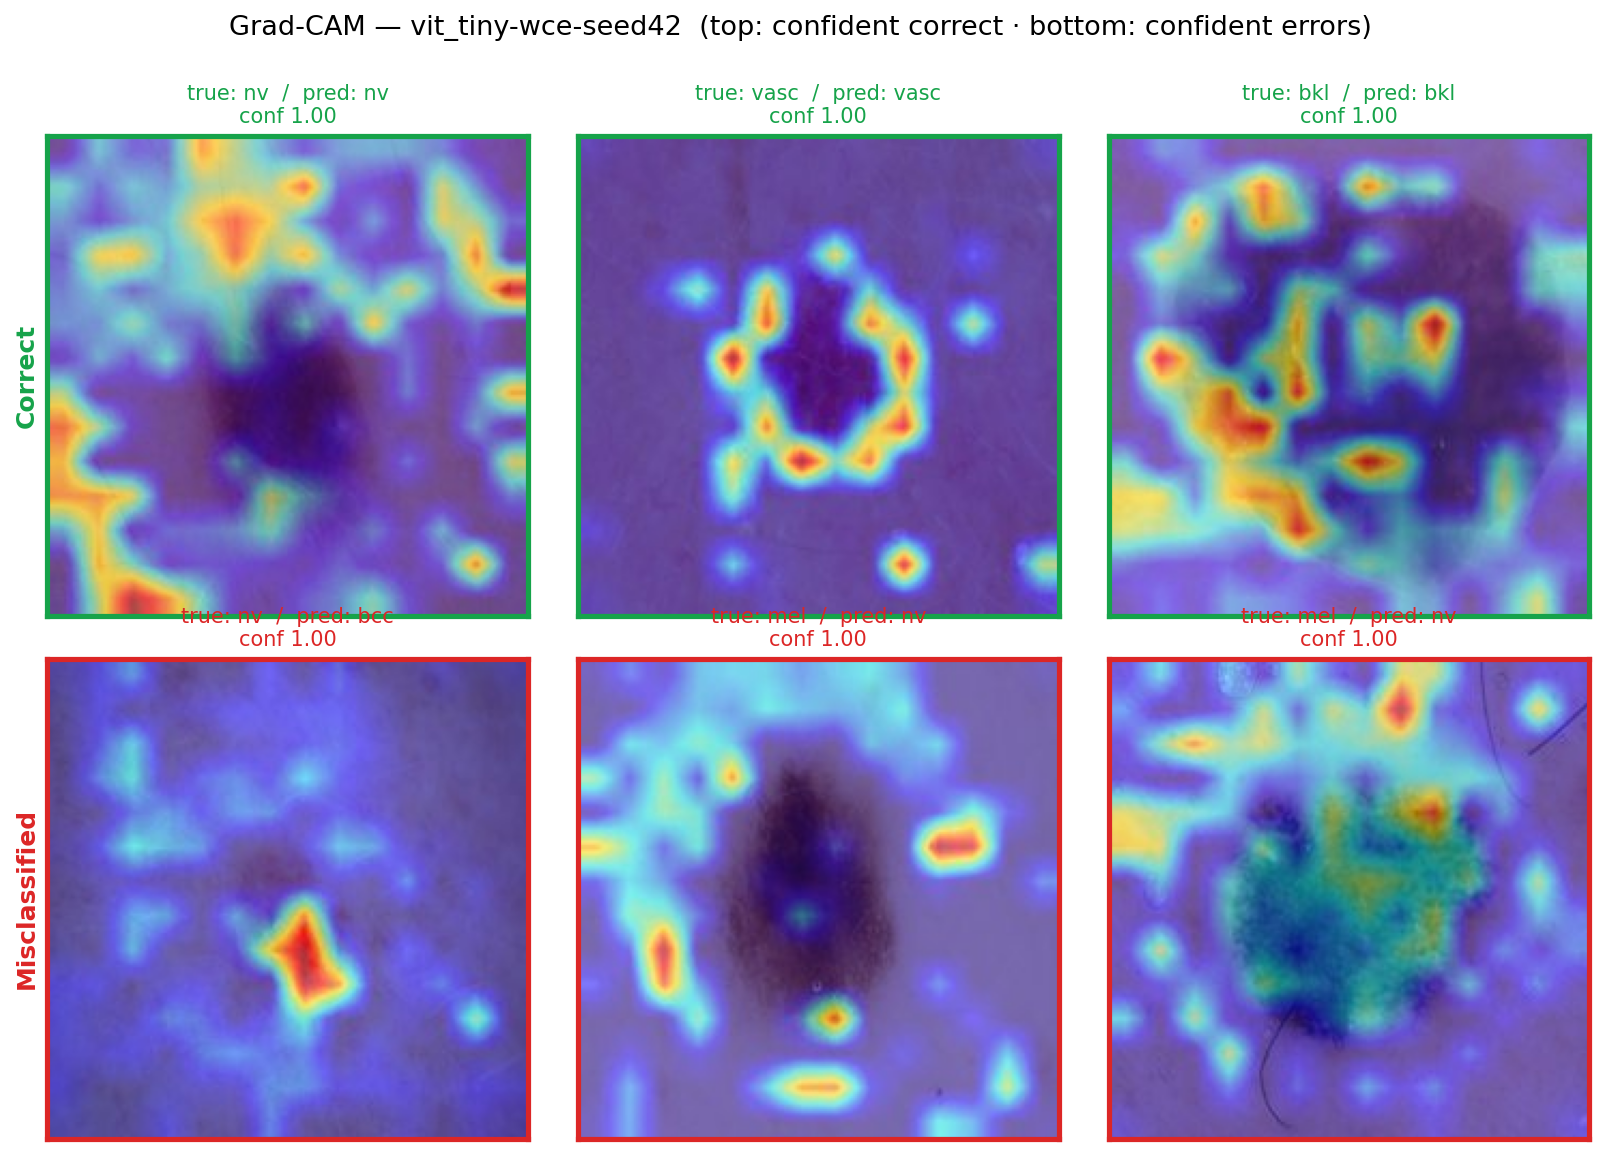
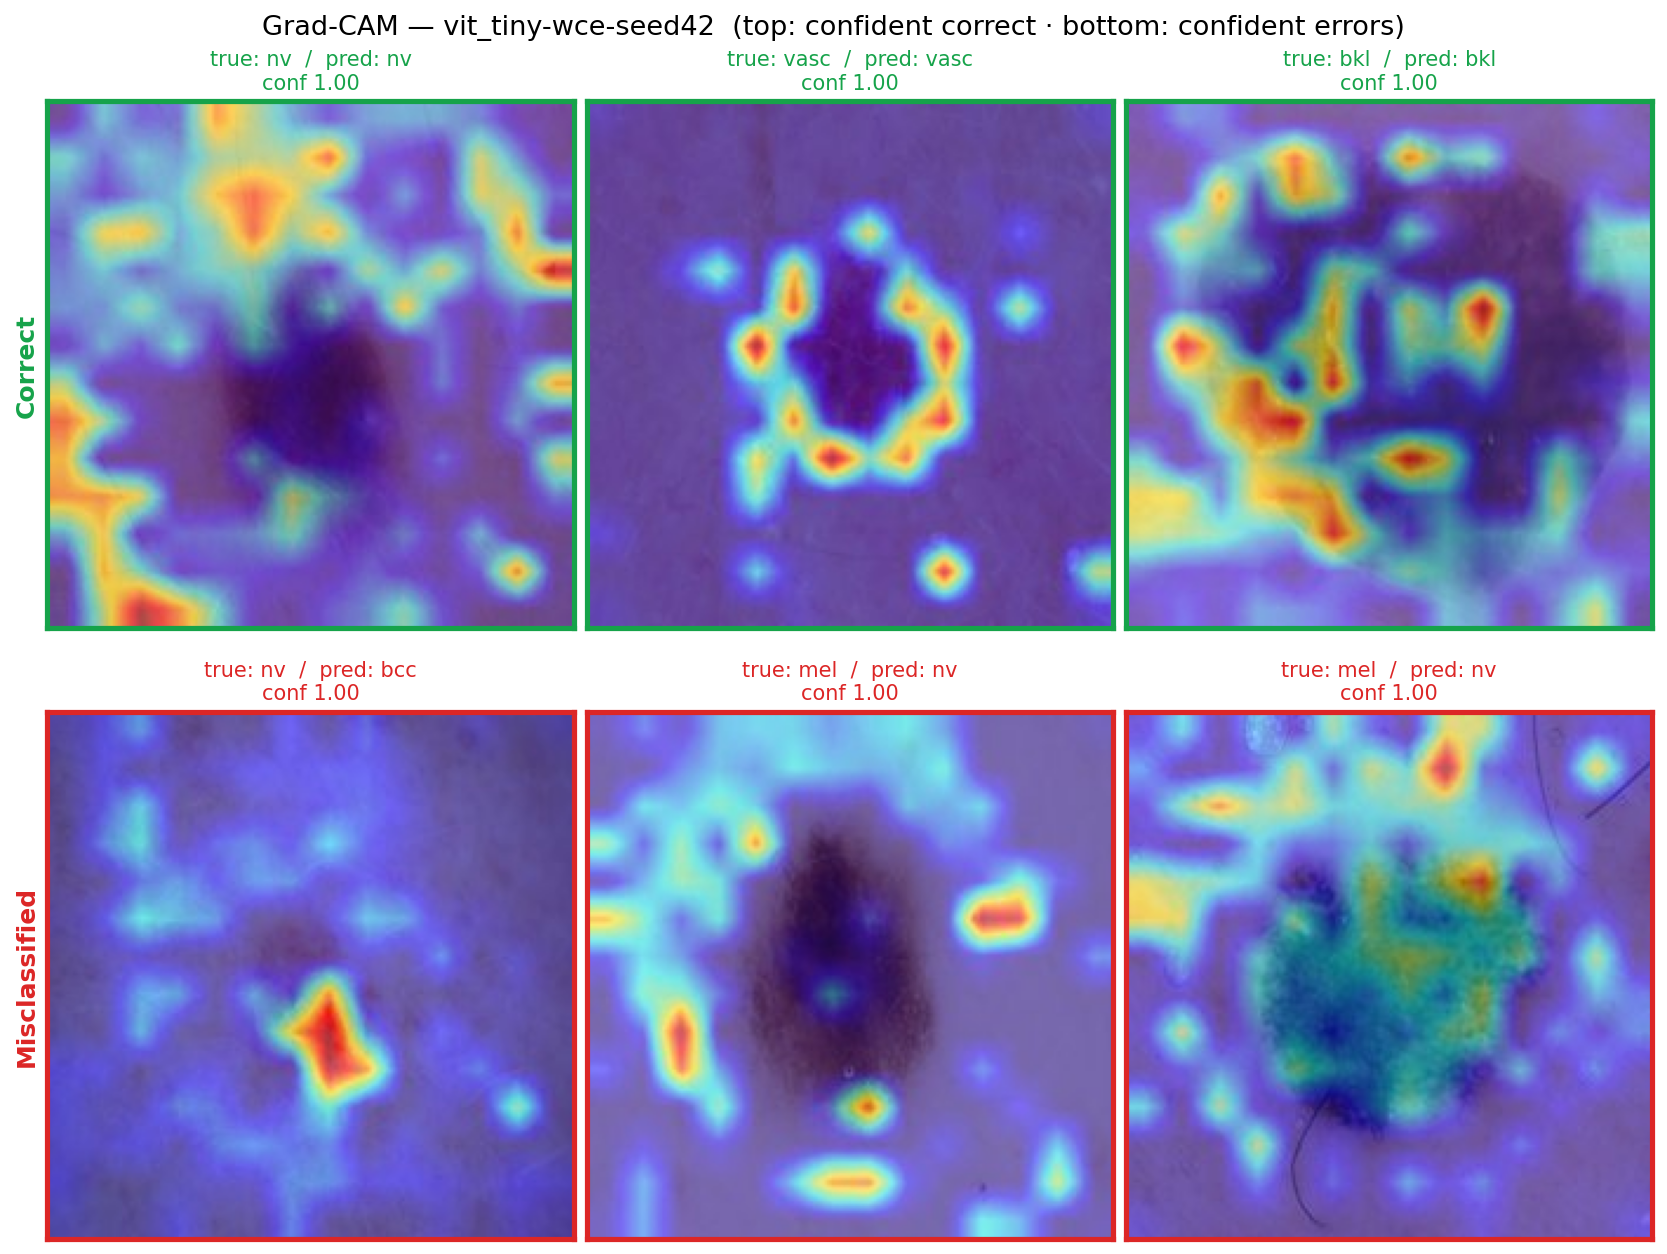
fix: Prevent title overlap in the Grad-CAM gallery
Use constrained layout so the bottom-row titles no longer overlap the
top-row images.

diff --git a/scripts/grad_cam_gallery.py b/scripts/grad_cam_gallery.py
@@ -74,7 +74,7 @@ def main() -> None:
     scan_df = _scan(predictor, test_df)
     correct_sel, wrong_sel = _pick(scan_df)
 
-    fig, axes = plt.subplots(2, 3, figsize=(11, 7.8))
+    fig, axes = plt.subplots(2, 3, figsize=(11, 8.4), layout="constrained")
     for row, sel in enumerate([correct_sel, wrong_sel]):
         ok = row == 0
         color = "#16a34a" if ok else "#dc2626"
@@ -103,7 +103,6 @@ def main() -> None:
         f"Grad-CAM — {run_name}  (top: confident correct · bottom: confident errors)",
         fontsize=13,
     )
-    fig.tight_layout(rect=(0, 0, 1, 0.97))
     _OUT.parent.mkdir(parents=True, exist_ok=True)
     fig.savefig(_OUT, dpi=150, bbox_inches="tight")
     plt.close(fig)